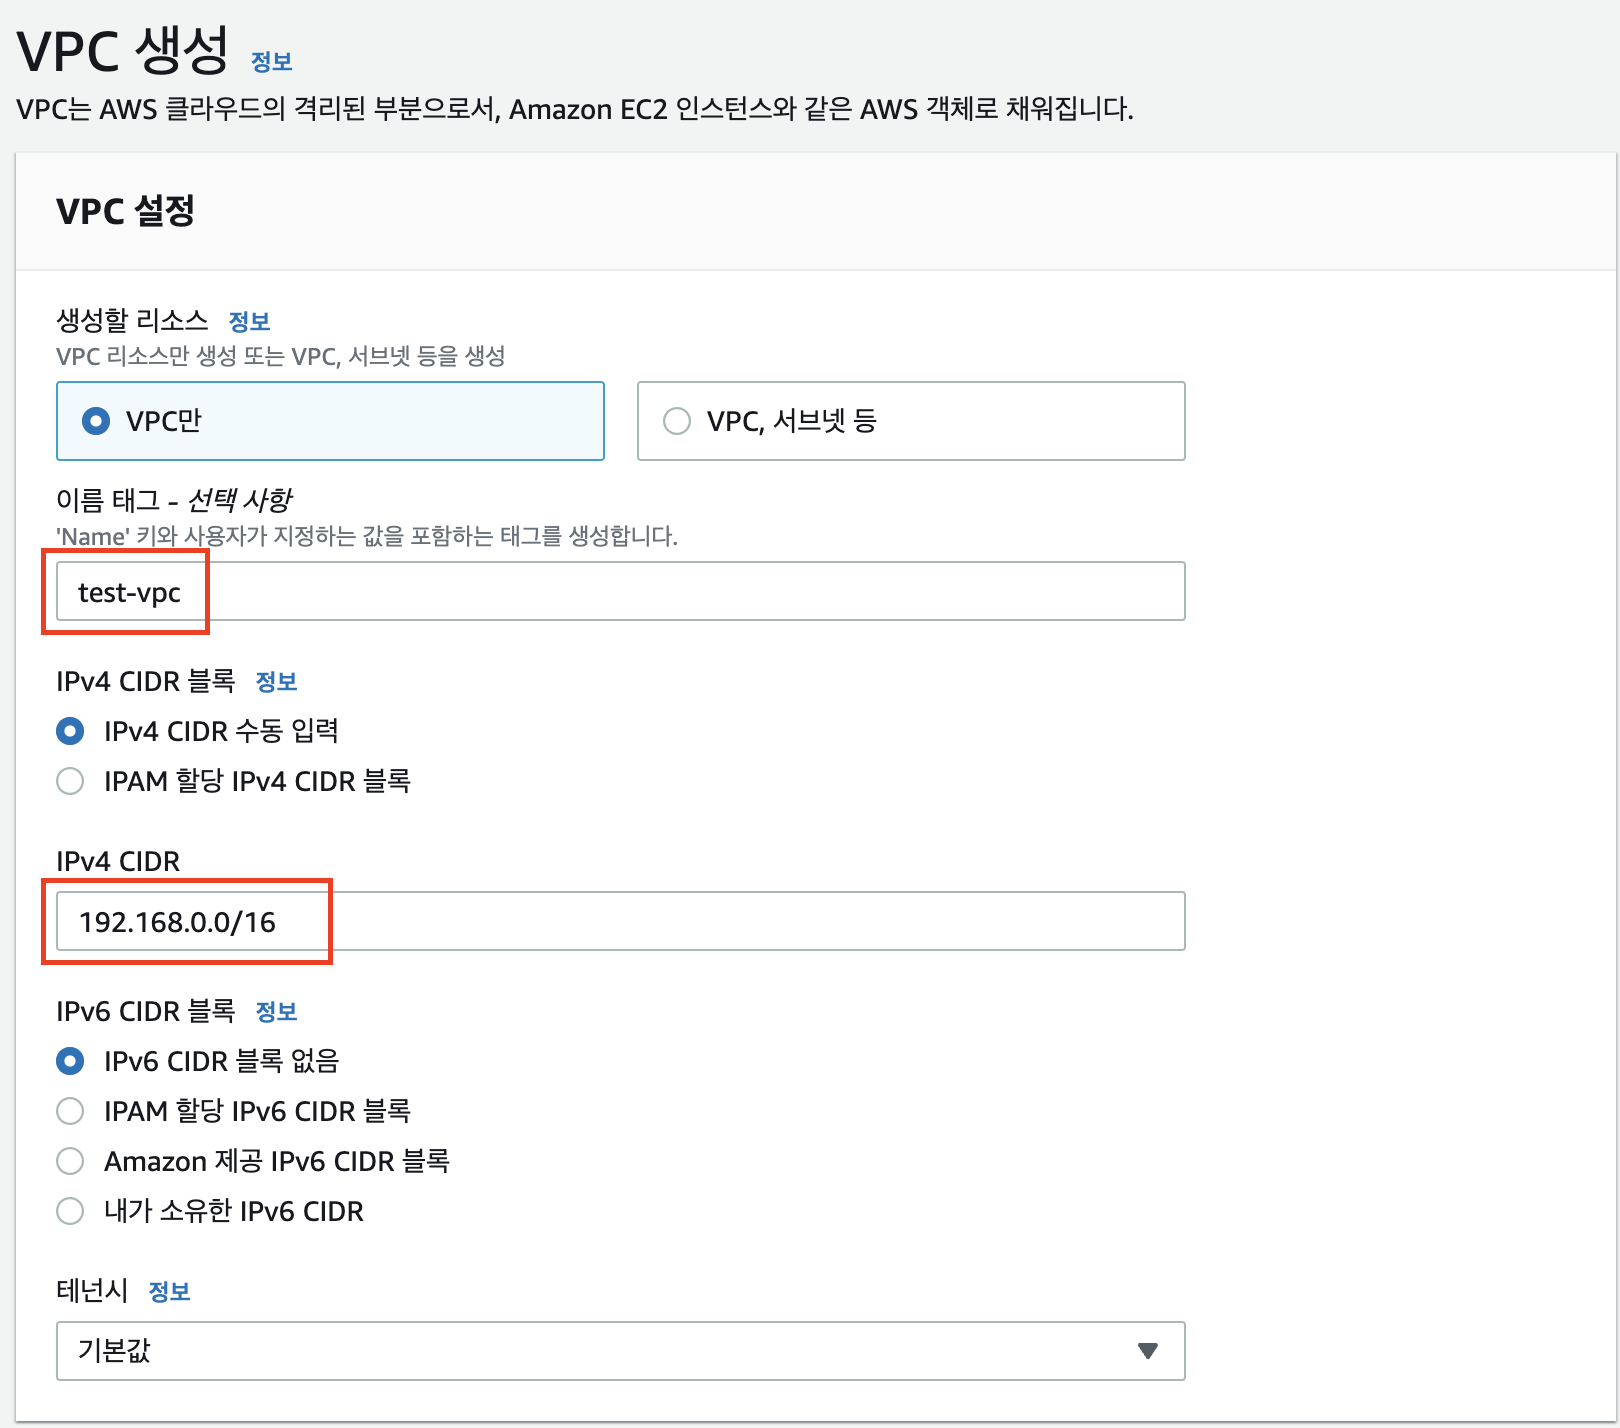
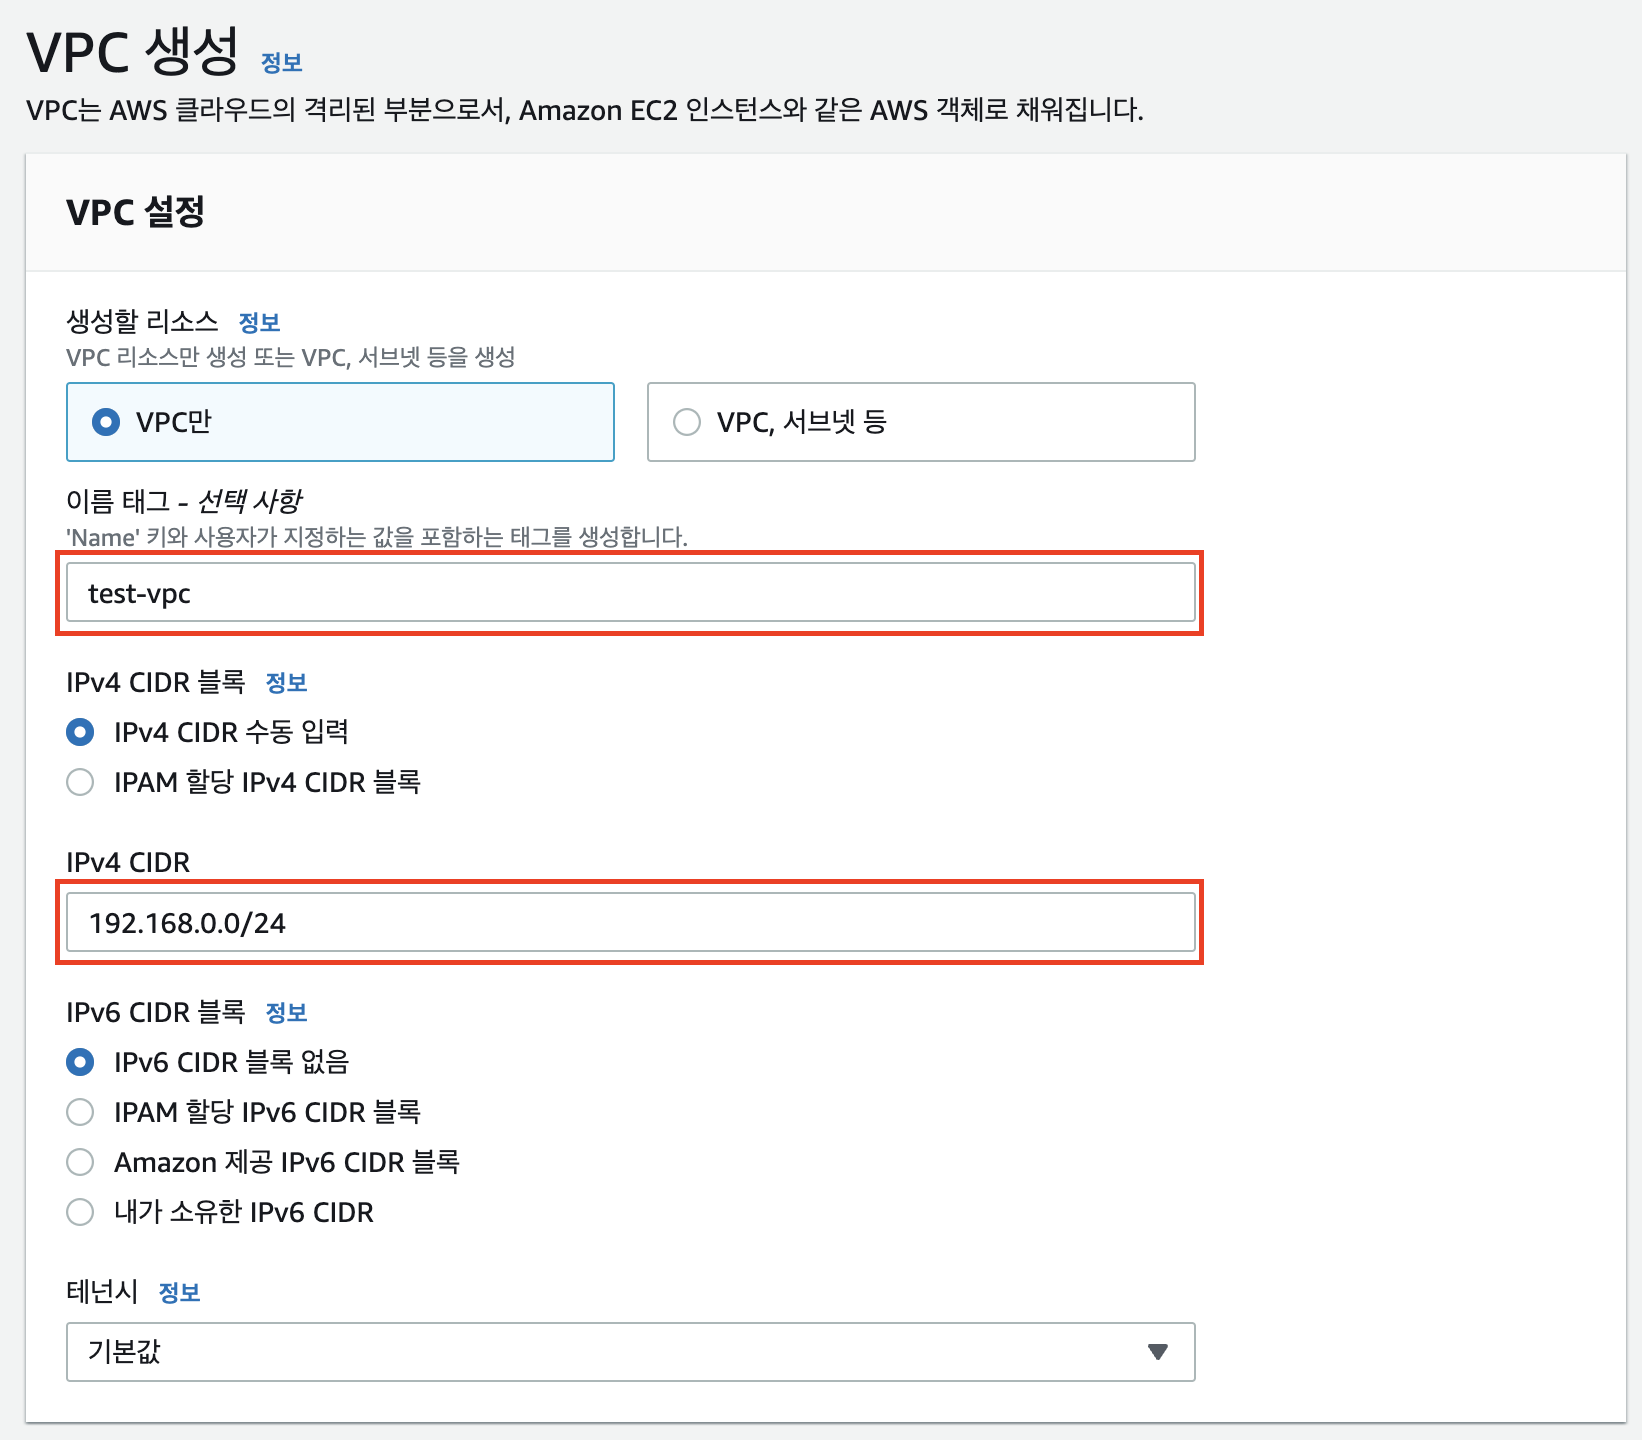
[aws] VPC에 서브넷 생성하기 완성

diff --git a/aws/VPC로-네트워크-망-분리하기/README.md b/aws/VPC로-네트워크-망-분리하기/README.md
@@ -1,7 +1,16 @@
 ### 망 분리 이유
-인터넷과 통신하는 외부망, 데이터베이스 등을 띄워두는 내부망, 외부망과 내부망에 접근하기 위한 관리용 망\
+보안적인 이로움을 얻는 등에 대한 이유도 있지만, 관심사를 분리하여 우리가 집중할 대상에 보다 집중하기 위함도 있다고 한다.\
+\
+아래에서 설명할 내용은 총 세 가지의 네트워크 망을 구성한다.
+1. 인터넷과 통신할 수 있는 외부망
+2. 데이터베이스 등에 접근할 수 있는 내부망
+3. 그리고 외부망과 내부망을 관리할 수 있는 관리망
 
-## VPC로 망 분리하기
+위처럼 네트워크 망을 분리하게 되면, 데이터베이스 등 중요한 자원들은 내부망에서만 관리하도록 한정지을 수 있다. 
+외부망은 인터넷과 통신하는 역할만 갖고, 내부망에는 쉽게 접근할 수 없도록 제어할 수 있다. 
+또한 외부망과 내부망은 관리망을 통해서만 접근 가능하도록 설정하고, 관리망의 IP를 내 IP 혹은 회사 IP 등으로 한정짓는다면 더 안정적인 환경을 구성할 수 있다.
+
+
 ### VPC 생성하기
 우선 망을 분리할 가상 네트워크인 VPC를 생성해야 한다.
 1. 먼저 AWS 웹 콘솔에 로그인 후 VPC 서비스를 찾아 들어간다.
@@ -11,12 +20,24 @@
 3. 이름 태그와 IPv4 CIDR 대역폭을 지정하고, VPC를 생성한다.
 ![](VPC-생성하기/image3.png)
 이때 CIDR 크기는 [공식 문서](https://docs.aws.amazon.com/ko_kr/vpc/latest/userguide/working-with-vpcs.html#Create-VPC)에 따라 `/16 ~ /28` 사이여야 하며, 
-IP는 [RFC 1918](http://www.faqs.org/rfcs/rfc1918.html) 규격에 따라 프라이빗 IP 주소 범위에 속하는 CIDR 블록을 지정하는 것이 좋다. (예: 10.0.0.0/16, 172.16.0.0/16, 192.168.0.0/16 등)
+IP는 [RFC 1918](http://www.faqs.org/rfcs/rfc1918.html) 규격에 따라 프라이빗 IP 주소 범위에 속하는 CIDR 블록을 지정하는 것이 좋다. (예: 10.0.0.0/16, 172.16.0.0/16, 192.168.0.0/24 등)
 4. VPC를 생성하고, VPC 서비스 대시보드에서 정상적으로 생성됐음을 확인한다.
 ![](VPC-생성하기/image4.png)
 
 ### VPC에 서브넷 생성하기
 VPC를 생성하고 인터넷과 통신할 외부망, 데이터베이스 등이 연결될 내부망, 그리고 외부망과 내부망에 접근할 수 있는 관리망에 대한 서브넷을 생성해야 한다.
-1. 
+1. 서브넷을 생성하기 위해 VPC 서비스 사이드바에서 `서브넷` 대시보드에 접근한 후 `서브넷 생성` 버튼을 클릭한다.
+  ![](VPC에-서브넷-생성하기/image1.png)
+2. 서브넷 생성 페이지에서 서브넷을 생성할 VPC를 지정해준다.
+![](VPC에-서브넷-생성하기/image2.png)
+3. 서브넷 설정 섹션에서 외부망, 내부망, 관리망에 해당하는 서브넷을 설정한다.
+![](VPC에-서브넷-생성하기/image3.png)
+![](VPC에-서브넷-생성하기/image4.png)
+![](VPC에-서브넷-생성하기/image5.png)
+4. 설정한 서브넷을 생성하고, 대시보드에서 정상적으로 생성됐음을 확인한다.
+![](VPC에-서브넷-생성하기/image6.png)
 
+### EC2와 VPC 연결하기
+서브넷을 생성했으니, 이 서브넷을 적용할 가상 서버인 EC2도 만들어야 한다.
+1. 
 ### 외부망 서브넷 인터넷과 연결하기
